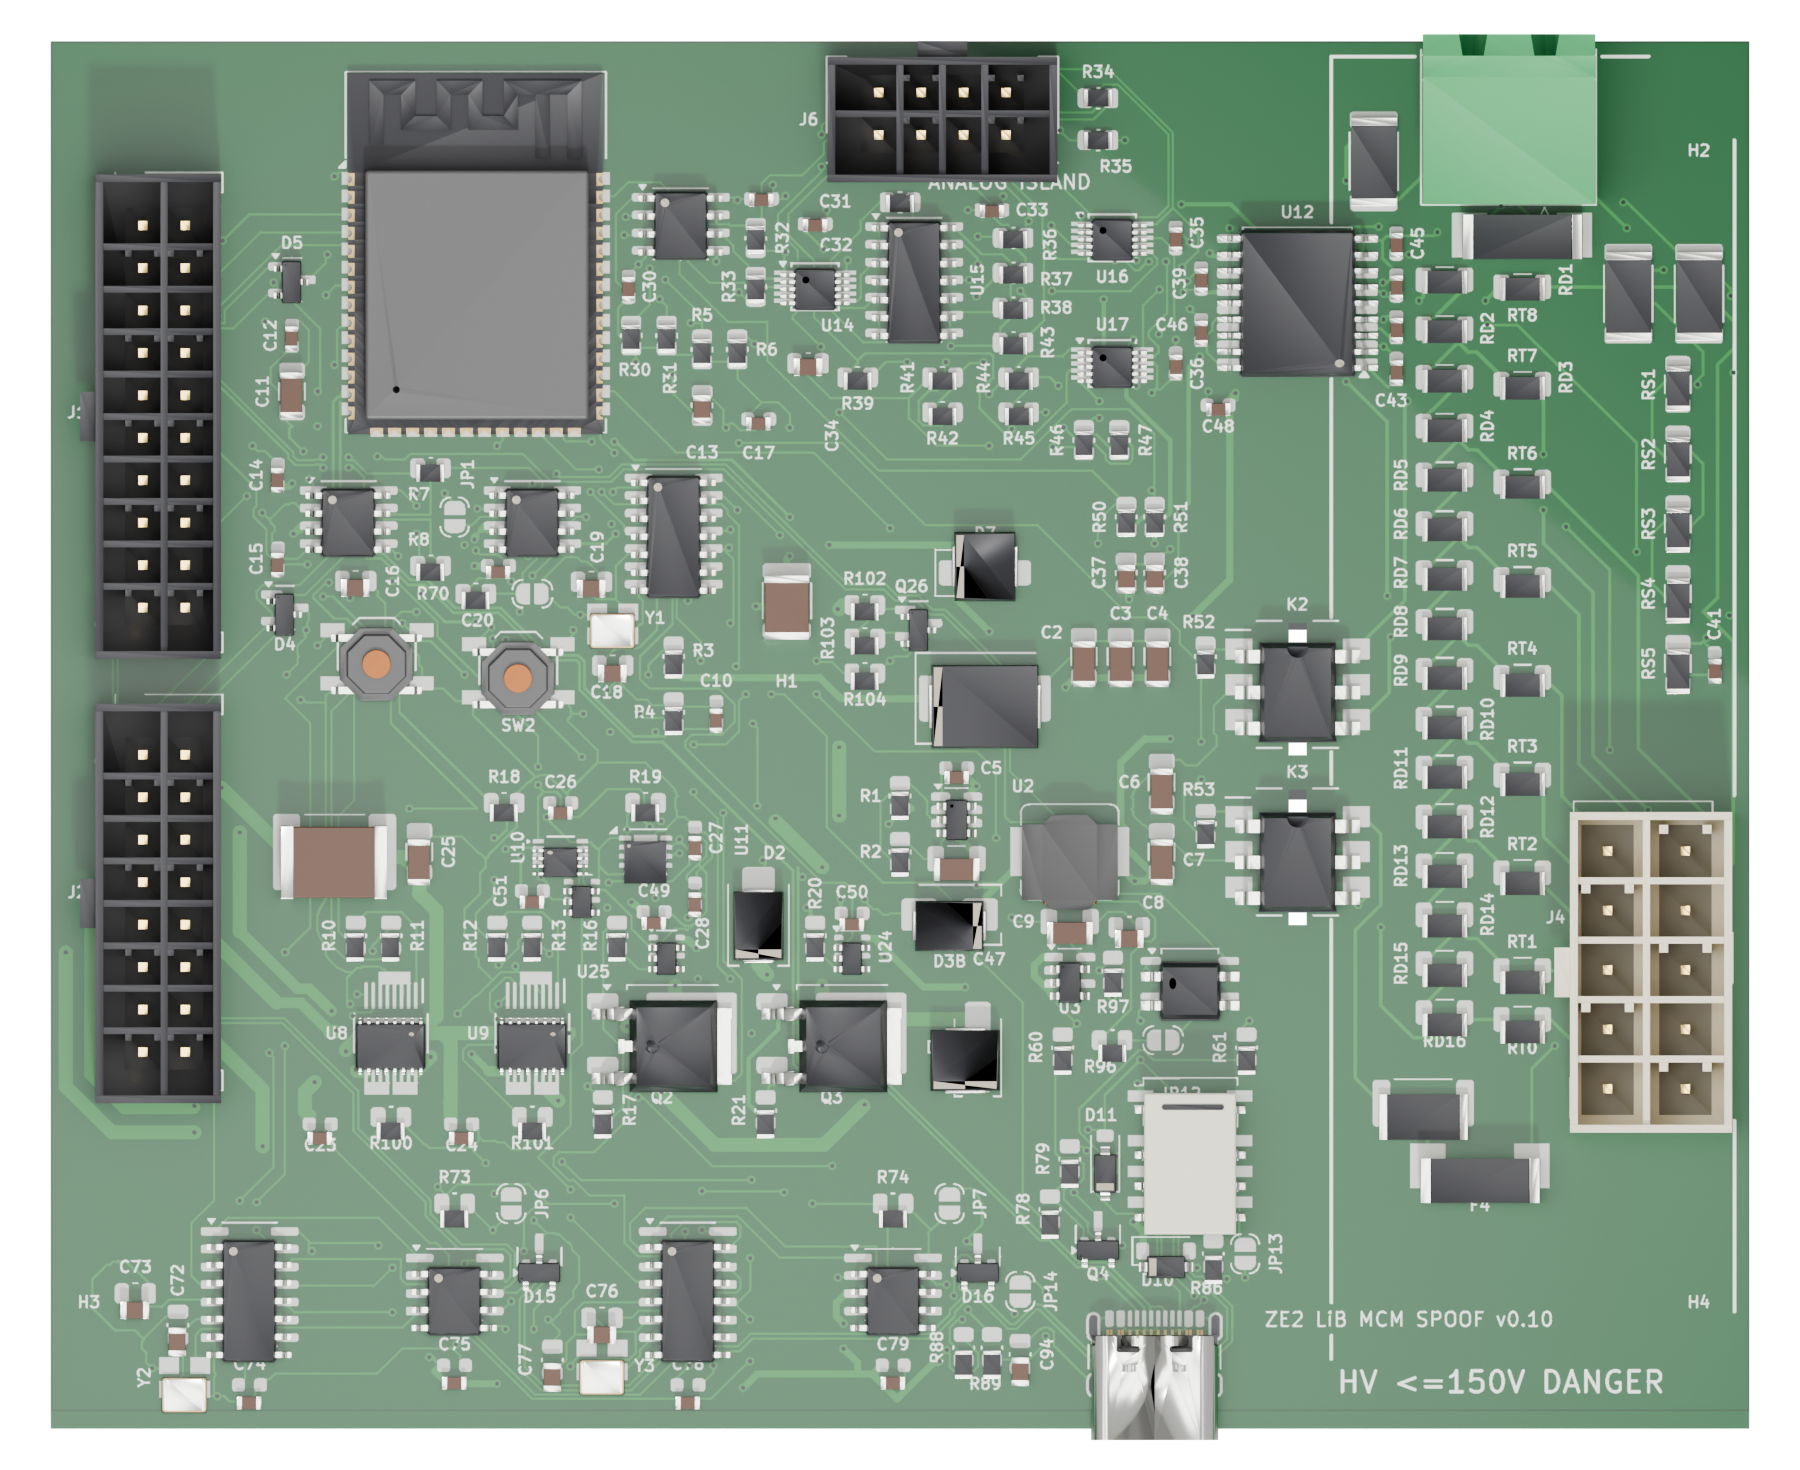
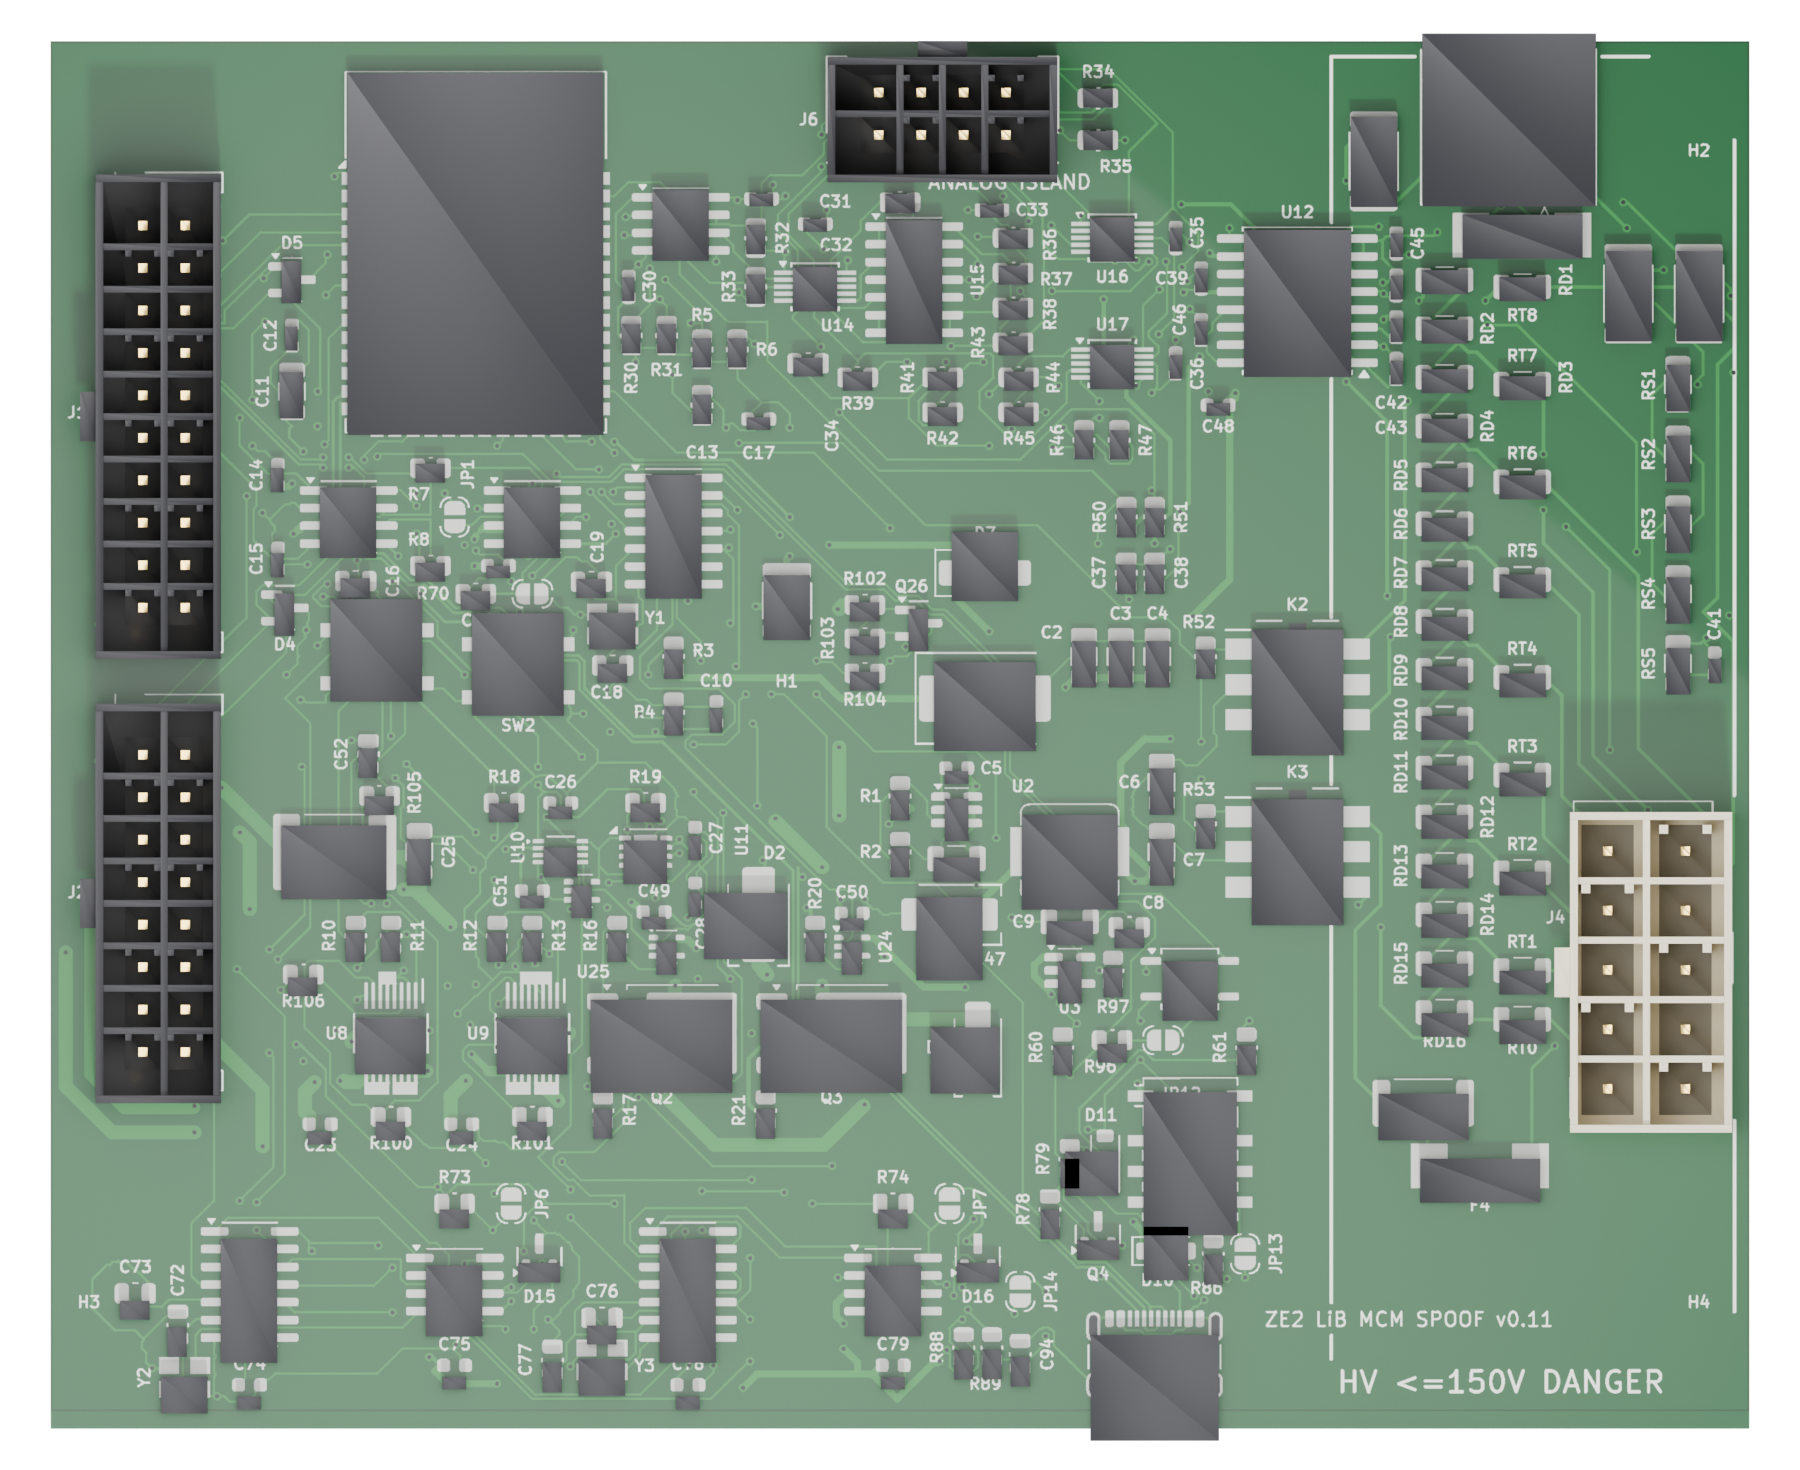
Mark v0.11 as the current version; refresh images and schematic sheets to v0.11
README: current-version banner and a Versions table; earlier tags are superseded.
Schematic sheets: IO36 CS3, IO9 MultiSense, 100R ladder ends. Renders re-made from the v0.11 board.

Claude-Session: https://claude.ai/code/session_01LJV1yaJZa25wT5pyC5QfRr

diff --git a/docs/schematic.py b/docs/schematic.py
@@ -83,11 +83,11 @@ def sheet1(path):
         d += elm.Line().at(mcu["USB D+/D-"]).right(1).label("USB-C", "right")
         note(d, (18.8, -5.6),
              "GPIO map: IO4/5 TWAI (CAN1 EV bus), IO11/12/13 SPI,\n"
-             "IO39 CS2 / IO38 INT2 (CAN2 MCM side), IO9 CS3 / IO3 INT3 (CAN3 car side),\n"
+             "IO39 CS2 / IO38 INT2 (CAN2 MCM side), IO36 CS3 / IO3 INT3 (CAN3 car side),\n"
              "IO48 CS4 / IO14 INT4 (CAN4 dash), IO42 RELAY_SPLIT (sheet 5),\n"
              "IO15/16/17/21 HS IN, IO7 MCU_EN, IO6 WDI (sheet 2), IO47 PUMP_PWM,\n"
              "IO41 OPTO_EN, IO1/IO2 AMC3311 P/N (sheet 3), IO8/18 I2C -> ISO1540 (sheet 4),\n"
-             "IO10 IG_SENSE (100k/22k), IO19/20 USB.")
+             "IO10 IG_SENSE (100k/22k), IO9 U8 MultiSense (sheet 2), IO19/20 USB.")
         d.save(path, dpi=DPI, transparent=False)
 
 
@@ -151,7 +151,8 @@ def sheet2(path):
              "R19/C27 = power-on clear; U25 (Schmitt) squares its 10 ms edge for U10's CLR.\n"
              "U23/U24 SN74LV1T34 on +5 V: the NCE6020AK gates get 5 V (RDS(on) is specified from 4.5 V).\n"
              "VND7050AJ: current limit, thermal shutdown, ~-40V internal clamp = fast-decay coil, fast contact opening.\n"
-             "MultiSense to 1k (unused), SEn/SEL to GND: closure is verified by the isolated bus sense (sheet 3): level and no droop with precharge off. No flyback diodes.")
+             "U8 MultiSense ch0 = precharge-coil current: SEn via 15k (R106) to 3V3, SEL0/SEL1 low, 1k (R100) sense, 15k/10n (R105/C52) to IO9.\n"
+             "U9 MultiSense unused (1k to GND, SEn low). Main+ closure is verified by the isolated bus sense (sheet 3). No flyback diodes.")
 
         d += elm.Dot(open=True).at((0, -18.5)).label("VCOIL", "left")
         d += elm.Line().right(2)
@@ -195,7 +196,7 @@ def sheet3(path):
         d += elm.Fuse().down(1.6)
         note(d, (-5.6, 1.2), "F3 50mA 250VDC 4kA (0242.050UR)", 8)
         d += elm.ResistorIEC().down(1.6)
-        note(d, (-5.6, -0.4), "RF1 330R 1W", 8)
+        note(d, (-5.6, -0.4), "RF1 100R 1W", 8)
         d += elm.Switch().down(1.6)
         note(d, (-5.6, -2.0), "K2 AQV214EH 400V (OPTO_EN)", 8)
         d += elm.Line().down(0.4)
@@ -216,7 +217,7 @@ def sheet3(path):
         d += elm.Switch().down(1.6)
         note(d, (-5.6, y_sw - 0.2), "K3 AQV214EH 400V (OPTO_EN)", 8)
         d += elm.ResistorIEC().down(1.6)
-        note(d, (-5.6, y_sw - 1.8), "RF2 330R 1W", 8)
+        note(d, (-5.6, y_sw - 1.8), "RF2 100R 1W", 8)
         d += elm.Fuse().down(1.6)
         note(d, (-5.6, y_sw - 3.4), "F4 50mA 250VDC 4kA", 8)
         d += elm.Dot(open=True).label("J3 BUS-", "left")

diff --git a/README.md b/README.md
@@ -1,5 +1,9 @@
 # ZE2 Captur MCM spoof board
 
+> **Current version: v0.11** (tag [`v0.11`](../../releases/tag/v0.11), the head of `main`). Everything in this
+> repository (board, fab files in `hw/out/jlc/`, firmware, images, docs) describes v0.11. Earlier versions are kept
+> only as git tags and are **superseded: do not order from them**. See [Versions](#versions).
+
 A man-in-the-middle board that lets a stock Honda Insight ZE2 run on a Renault Captur E-Tech
 lithium pack. The stock MCM stays in charge; the board only changes what it measures: cell taps,
 pack temperatures and the current-sensor signal. It also sits on the car's CAN buses. Later,
@@ -248,6 +252,22 @@ island-health report.
 | `firmware/` | ESP-IDF firmware, simulation build and its results (`firmware/sim/out/`) |
 | `docs/` | schematic script and the README images |
 | `tests/` | pytest checks |
+
+## Versions
+
+Only the latest version is current. Every earlier tag is kept for history and is superseded: its fab files,
+firmware and docs are out of date. None has been built yet.
+
+| Tag | Status | What changed |
+|---|---|---|
+| **v0.11** | **Current** (unbuilt) | Datasheet pass: precharge-coil current sense, 100 R tap-ladder ends, Littelfuse 242 land pattern |
+| v0.10 | Superseded | Third design review: close verification, island checks, boot latch, pump readback |
+| v0.9 | Superseded | Re-routed with KiCadRoutingTools |
+| v0.8 | Superseded | Board measures the remaining unknowns itself |
+| v0.7 | Superseded | Second design review |
+| v0.6 | Superseded | First design review |
+| v0.5 | Superseded | MCP2518FD CAN controllers, LCSC BOM and cost |
+| v0.4 | Superseded | First published board (MCP2515) |
 
 ## Feedback
 
